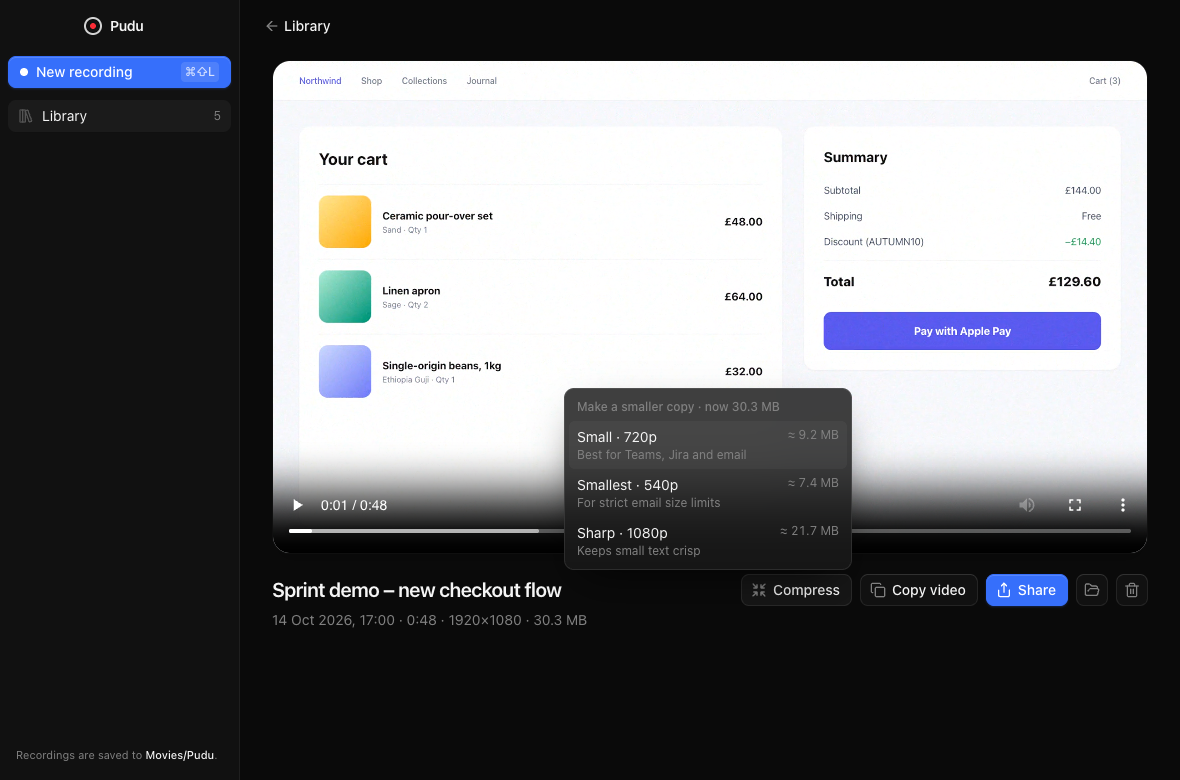
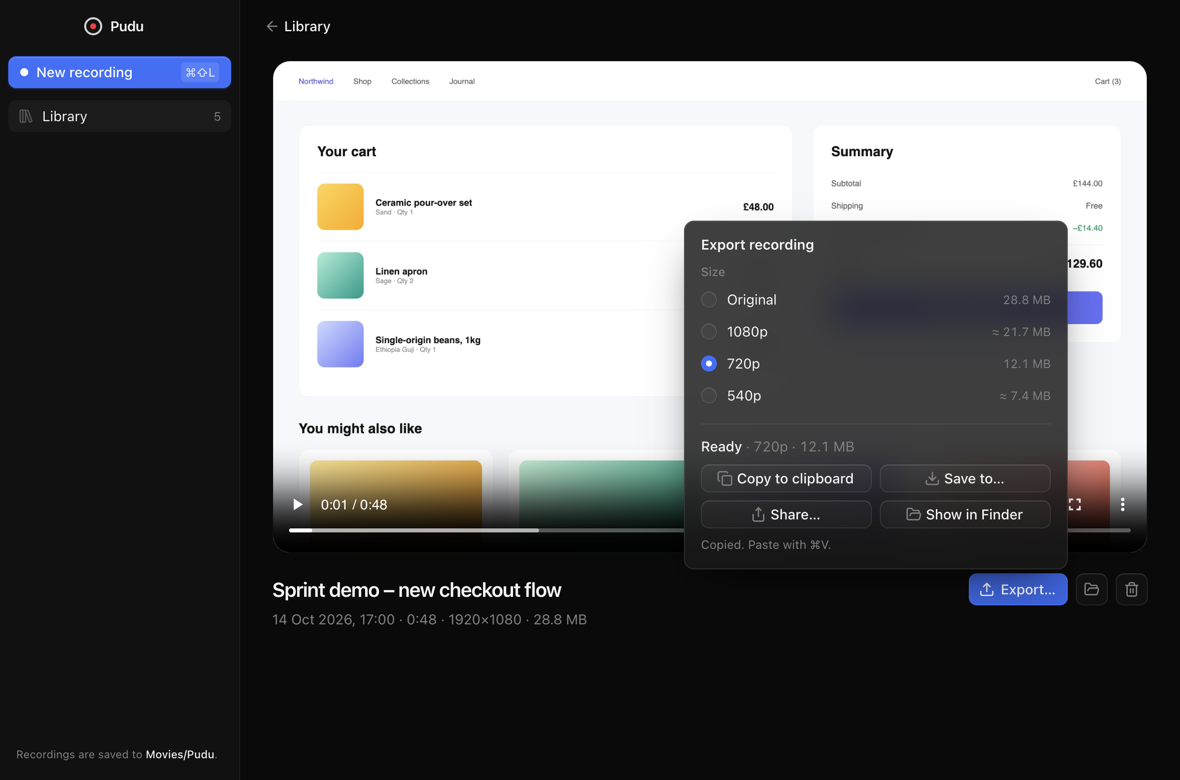
docs(readme): Export panel section and screenshots

diff --git a/README.md b/README.md
@@ -69,24 +69,32 @@ A small floating toolbar has **stop**, **pause**, **restart** and **delete**, wi
 When you stop, the take opens in your library, ready to watch. From there you can:
 
 - **Rename** it by clicking the title.
-- **Copy video** puts the file itself on the clipboard. Paste it into Teams, Slack, Mail or Finder with <kbd>⌘</kbd> <kbd>V</kbd>.
-- **Share** opens the macOS share menu: AirDrop, Mail, Messages, Notes and more.
+- **Export** it at full size or smaller: copy, save or share the file.
 - **Show in Finder** and **Delete**.
 
-### Compress for sharing
+### Export and share
 
 <picture>
-  <source media="(prefers-color-scheme: light)" srcset="assets/screenshots/compress-light.png" />
-  <img src="assets/screenshots/compress-dark.png" alt="The Compress menu with three sizes" width="900" />
+  <source media="(prefers-color-scheme: light)" srcset="assets/screenshots/export-light.png" />
+  <img src="assets/screenshots/export-dark.png" alt="The Export panel with a 720p copy ready to share" width="900" />
 </picture>
 
-Full-resolution screen recordings are big, and email and chat apps have limits. **Compress** makes a smaller copy next to the original, using the video converter built into macOS. It takes a few seconds and needs nothing extra installed.
+**Export…** opens one panel. Pick a size, then:
+
+- **Copy to clipboard** puts the file itself on the clipboard. Paste it into Teams, Slack, Mail or Finder with <kbd>⌘</kbd> <kbd>V</kbd>.
+- **Save to…** saves a copy wherever you choose.
+- **Share…** opens the macOS share menu: AirDrop, Mail, Messages, Notes and more.
+- **Show in Finder** shows the file.
+
+**Original** is ready at once. Full-resolution screen recordings are big, though, and email and chat apps have limits. Pick a smaller size and Pudu first makes a copy with the video converter built into macOS. It takes a few seconds and needs nothing extra installed. Until the copy is ready, its size is an estimate.
+
+The copy stays with its recording, next to the original in `~/Movies/Pudu`. Pick the same size later and it is ready at once. Delete the recording and its copies go too. Sizes that would barely shrink the file are not offered.
 
 | Size | Best for | Typical size per minute |
 | --- | --- | --- |
-| **Small · 720p** | Teams, Jira, Slack and most email | about 12 MB |
-| **Smallest · 540p** | Strict email limits (Outlook 20 MB, Gmail 25 MB) | about 10 MB |
-| **Sharp · 1080p** | Code and small text that must stay crisp | about 28 MB |
+| **1080p** | Code and small text that must stay crisp | about 28 MB |
+| **720p** | Teams, Jira, Slack and most email | about 12 MB |
+| **540p** | Strict email limits (Outlook 20 MB, Gmail 25 MB) | about 10 MB |
 
 For comparison, the original of a full-screen recording on a large display is about 50 MB per minute. The copy is a standard H.264/AAC MP4 with "fast start", so it plays inline in Teams, Jira, Slack, Outlook and Gmail, and on Windows, Android and iOS.
 
@@ -163,7 +171,7 @@ packages/contracts   Types and IPC channel names shared by every process
 apps/desktop         Electron main process
   studio.ts            The recording lifecycle and its windows (the single source of state)
   windows.ts           Window factories: library, launcher, settings, bubble, toolbar, countdown, recorder
-  library.ts           Recordings on disk: <id>.mp4 + <id>.jpg + <id>.json
+  library.ts           Recordings on disk: <id>.mp4 + <id>.jpg + <id>.json, plus share copies (<id>.720p.mp4)
   compress.ts          Share copies through macOS's built-in avconvert
   mediaProtocol.ts     pudu-media:// with byte ranges, so the player can seek
   preload.ts           The window.pudu bridge
